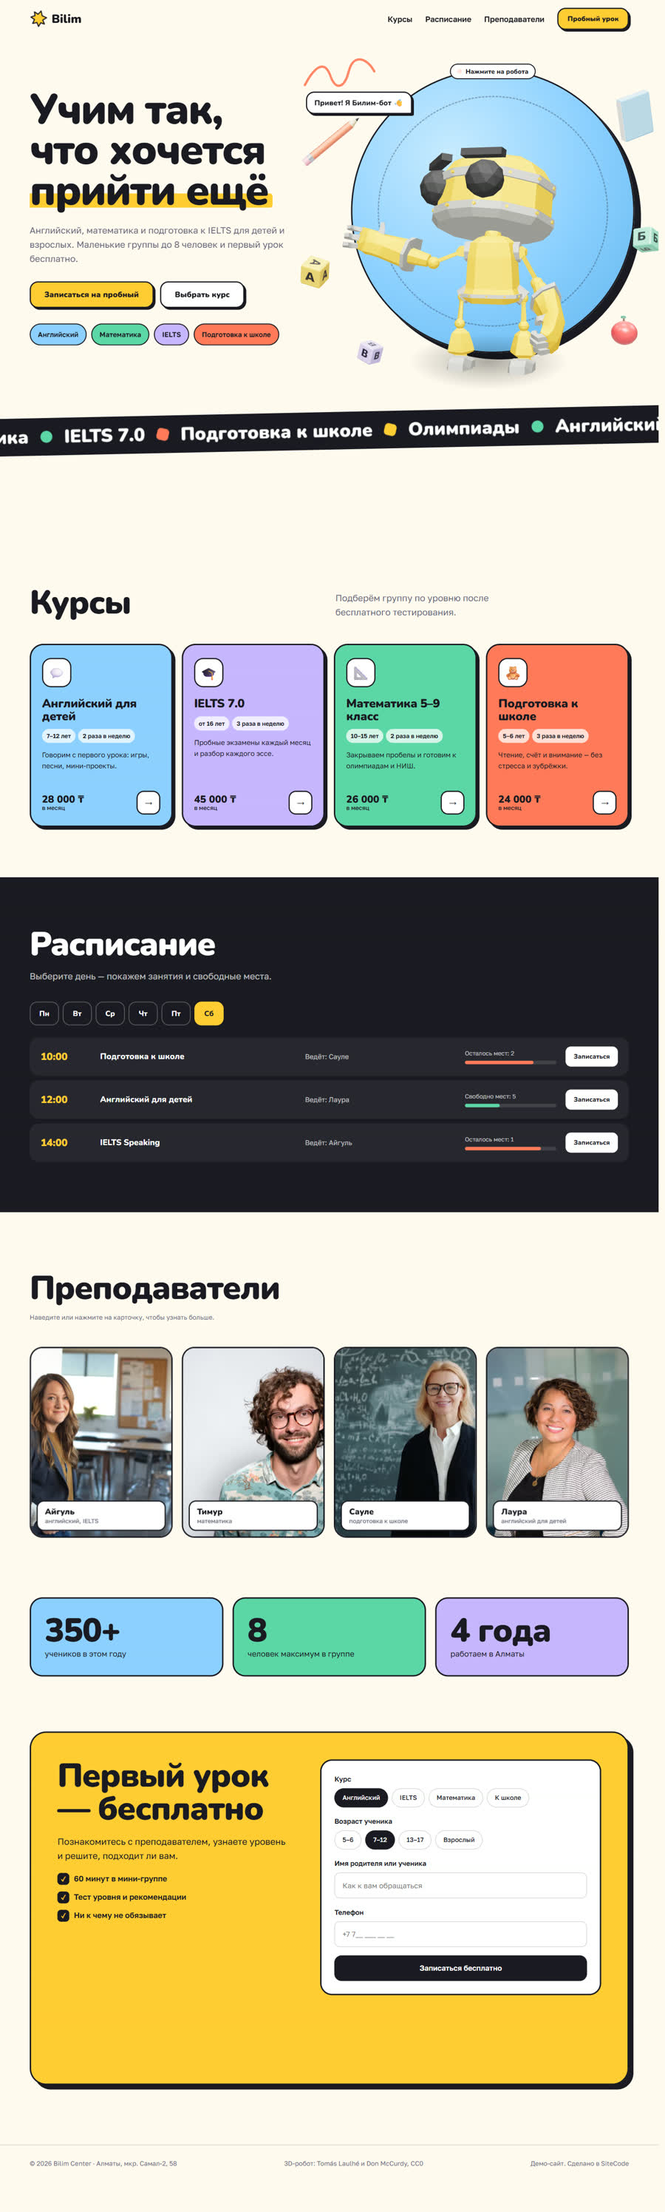
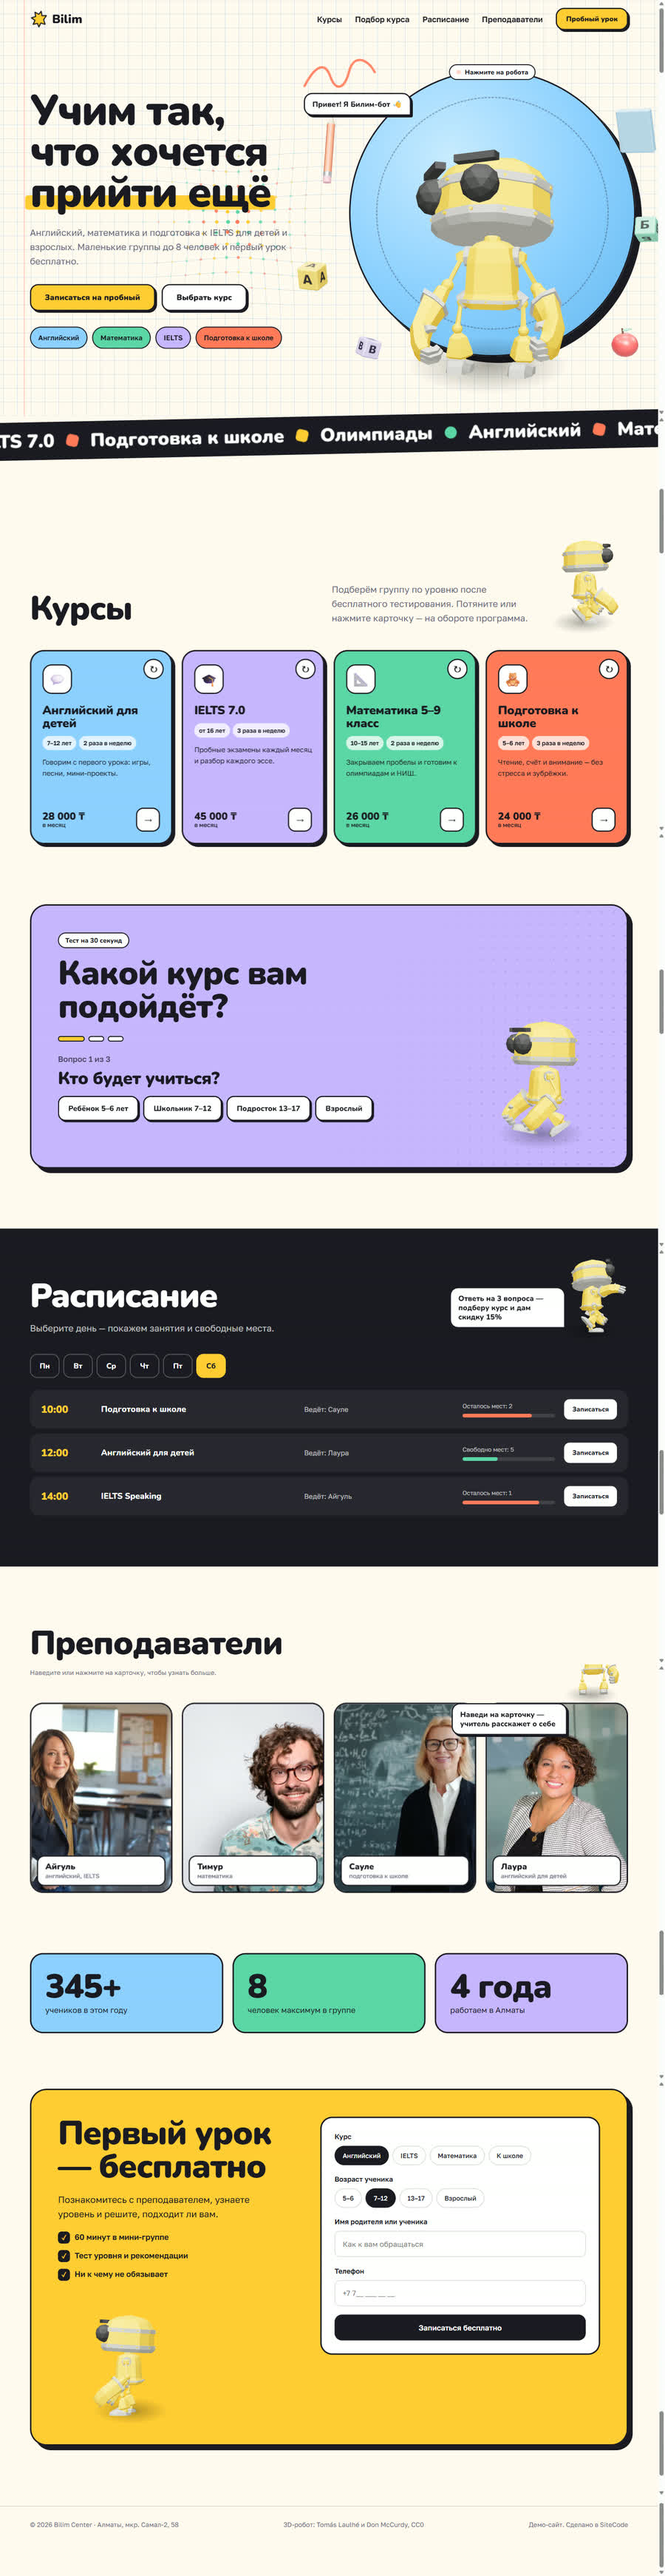
Главная: новые превью и подписи для всех семи демо
- превью в карточках работ пересняты с обновлённых демо: сцены
  с прокруткой попадают в превью одним кадром, без пустых мест
- подписи и метки карточек рассказывают о новых возможностях:
  галерея стрижек, хиты недели, косметика в 3D, отбеливание,
  калькулятор, чек со скидкой, тест-подбор курса

diff --git a/index.html b/index.html
@@ -159,49 +159,49 @@
       <div class="cflow-stage" id="cflowStage">
         <div class="cflow-glow" aria-hidden="true"></div>
 
-        <article class="cf-card" data-bg="#16120F" data-fg="#EFE8DC" data-ac="#C9A35E" data-kind="Барбершоп" data-name="USTARA" data-tags="3D-кольцо|Мастера|Онлайн-запись" data-desc="Кольцо из работ мастеров крутится сквозь огромное слово, мастера под светом прожектора и запись на свободное время.">
+        <article class="cf-card" data-bg="#16120F" data-fg="#EFE8DC" data-ac="#C9A35E" data-kind="Барбершоп" data-name="USTARA" data-tags="3D-кольцо|Галерея стрижек|Онлайн-запись" data-desc="Кольцо из работ мастеров крутится сквозь огромное слово в лентах тёплого света. В круглой галерее стрижек можно записаться на понравившуюся работу.">
           <a class="work-frame" href="demos/barbershop.html" target="_blank" rel="noopener" aria-label="Открыть демо барбершопа USTARA">
             <span class="work-bar" aria-hidden="true"><i></i><i></i><i></i><span>ustara.kz</span></span>
             <span class="work-screen"><img src="assets/img/works/barbershop.jpg" alt="" decoding="async"></span>
           </a>
         </article>
 
-        <article class="cf-card" data-bg="#3B2519" data-fg="#F3EADC" data-ac="#E2A43A" data-kind="Кофейня" data-name="DALA coffee" data-tags="3D-стакан|Меню|Заказ навынос" data-desc="3D-стакан на подставке режется на слои, фон меняется под каждую сцену. Меню, корзина и заказ навынос в WhatsApp.">
+        <article class="cf-card" data-bg="#3B2519" data-fg="#F3EADC" data-ac="#E2A43A" data-kind="Кофейня" data-name="DALA coffee" data-tags="3D-стакан|Хиты недели|Заказ навынос" data-desc="3D-стакан режется на слои, фон сменяется мазком кисти. Хиты недели на поворотной витрине, имя гостя на стакане и заказ навынос в WhatsApp.">
           <a class="work-frame" href="demos/coffee.html" target="_blank" rel="noopener" aria-label="Открыть демо кофейни DALA coffee">
             <span class="work-bar" aria-hidden="true"><i></i><i></i><i></i><span>dalacoffee.kz</span></span>
             <span class="work-screen"><img src="assets/img/works/coffee.jpg" alt="" decoding="async"></span>
           </a>
         </article>
 
-        <article class="cf-card" data-bg="#24111A" data-fg="#FBEFF2" data-ac="#F7B9C9" data-kind="Салон красоты" data-name="Aru Studio" data-tags="Фото из частиц|Запись|Сертификаты" data-desc="Фото из тысяч светящихся точек вихрем перетекает от услуги к услуге и расступается под курсором. Мастера, «до и после» и сертификаты.">
+        <article class="cf-card" data-bg="#24111A" data-fg="#FBEFF2" data-ac="#F7B9C9" data-kind="Салон красоты" data-name="Aru Studio" data-tags="Фото из частиц|Косметика в 3D|Запись" data-desc="Фото из светящихся точек перетекает от услуги к услуге. Своя косметика падает в кадр в 3D, стена работ проявляет цвет под линзой.">
           <a class="work-frame" href="demos/beauty.html" target="_blank" rel="noopener" aria-label="Открыть демо салона красоты Aru Studio">
             <span class="work-bar" aria-hidden="true"><i></i><i></i><i></i><span>arustudio.kz</span></span>
             <span class="work-screen"><img src="assets/img/works/beauty.jpg" alt="" decoding="async"></span>
           </a>
         </article>
 
-        <article class="cf-card" data-bg="#0B5F5A" data-fg="#EFFFFC" data-ac="#5BE6D6" data-kind="Стоматология" data-name="Inzhu Dental" data-tags="3D-зуб|Имплант|Запись на приём" data-desc="Анатомичный 3D-моляр превращается в имплант, разбирается на детали и садится в десну. Цены во вкладках и запись на приём.">
+        <article class="cf-card" data-bg="#0B5F5A" data-fg="#EFFFFC" data-ac="#5BE6D6" data-kind="Стоматология" data-name="Inzhu Dental" data-tags="3D-зуб|Отбеливание|Запись на приём" data-desc="3D-моляр превращается в имплант с чертежом размеров. Ползунок отбеливания меняет оттенок 3D-зуба, в финале — гарантия 5 лет.">
           <a class="work-frame" href="demos/dental.html" target="_blank" rel="noopener" aria-label="Открыть демо стоматологии Inzhu Dental">
             <span class="work-bar" aria-hidden="true"><i></i><i></i><i></i><span>inzhudental.kz</span></span>
             <span class="work-screen"><img src="assets/img/works/dental.jpg" alt="" decoding="async"></span>
           </a>
         </article>
 
-        <article class="cf-card" data-bg="#0B0B0D" data-fg="#F2F2F3" data-ac="#FF4D1A" data-kind="Детейлинг" data-name="GLOSS Lab" data-tags="3D-машина|Пакеты|Онлайн-запись" data-desc="3D-машина полируется при прокрутке, разбирается на зоны и перекрашивается в выбранный цвет плёнки.">
+        <article class="cf-card" data-bg="#0B0B0D" data-fg="#F2F2F3" data-ac="#FF4D1A" data-kind="Детейлинг" data-name="GLOSS Lab" data-tags="3D-машина|Калькулятор|Онлайн-запись" data-desc="3D-машину покрывают плёнка и керамика, курсор её полирует. Калькулятор считает цену под ваш кузов, запись — в пару нажатий.">
           <a class="work-frame" href="demos/detailing.html" target="_blank" rel="noopener" aria-label="Открыть демо детейлинг-центра GLOSS Lab">
             <span class="work-bar" aria-hidden="true"><i></i><i></i><i></i><span>glosslab.kz</span></span>
             <span class="work-screen"><img src="assets/img/works/detailing.jpg" alt="" decoding="async"></span>
           </a>
         </article>
 
-        <article class="cf-card" data-bg="#F3E6A6" data-fg="#2A2610" data-ac="#2A2610" data-kind="Интернет-магазин" data-name="Ayla Store" data-tags="3D-сумка|Вешалка новинок|Образы" data-desc="Кожаная 3D-сумка меняет цвет вместе с фоном, новинки качаются на вешалке, образ недели покупается в один клик. Быстрый просмотр с размерами и корзина.">
+        <article class="cf-card" data-bg="#F3E6A6" data-fg="#2A2610" data-ac="#2A2610" data-kind="Интернет-магазин" data-name="Ayla Store" data-tags="3D-сумка|Образы|Чек со скидкой" data-desc="3D-сумка меняет цвет вместе с фоном, образы стоят коридором. Покупки падают в крафтовый пакет, а при оформлении печатается чек со скидкой.">
           <a class="work-frame" href="demos/shop.html" target="_blank" rel="noopener" aria-label="Открыть демо интернет-магазина Ayla Store">
             <span class="work-bar" aria-hidden="true"><i></i><i></i><i></i><span>aylastore.kz</span></span>
             <span class="work-screen"><img src="assets/img/works/shop.jpg" alt="" decoding="async"></span>
           </a>
         </article>
 
-        <article class="cf-card" data-bg="#FFD84D" data-fg="#1A1A22" data-ac="#1A1A22" data-kind="Учебный центр" data-name="Bilim Center" data-tags="3D-робот|Курсы|Пробный урок" data-desc="3D-робот встречает, ходит за вами по разделам и подсказывает у формы. Курсы, расписание и пробный урок.">
+        <article class="cf-card" data-bg="#FFD84D" data-fg="#1A1A22" data-ac="#1A1A22" data-kind="Учебный центр" data-name="Bilim Center" data-tags="3D-робот|Тест-подбор|Пробный урок" data-desc="3D-робот ходит за вами по разделам, тетрадная клетка тянется к курсору. Карточки курсов переворачиваются, тест подбирает курс со скидкой.">
           <a class="work-frame" href="demos/school.html" target="_blank" rel="noopener" aria-label="Открыть демо учебного центра Bilim Center">
             <span class="work-bar" aria-hidden="true"><i></i><i></i><i></i><span>bilimcenter.kz</span></span>
             <span class="work-screen"><img src="assets/img/works/school.jpg" alt="" decoding="async"></span>
